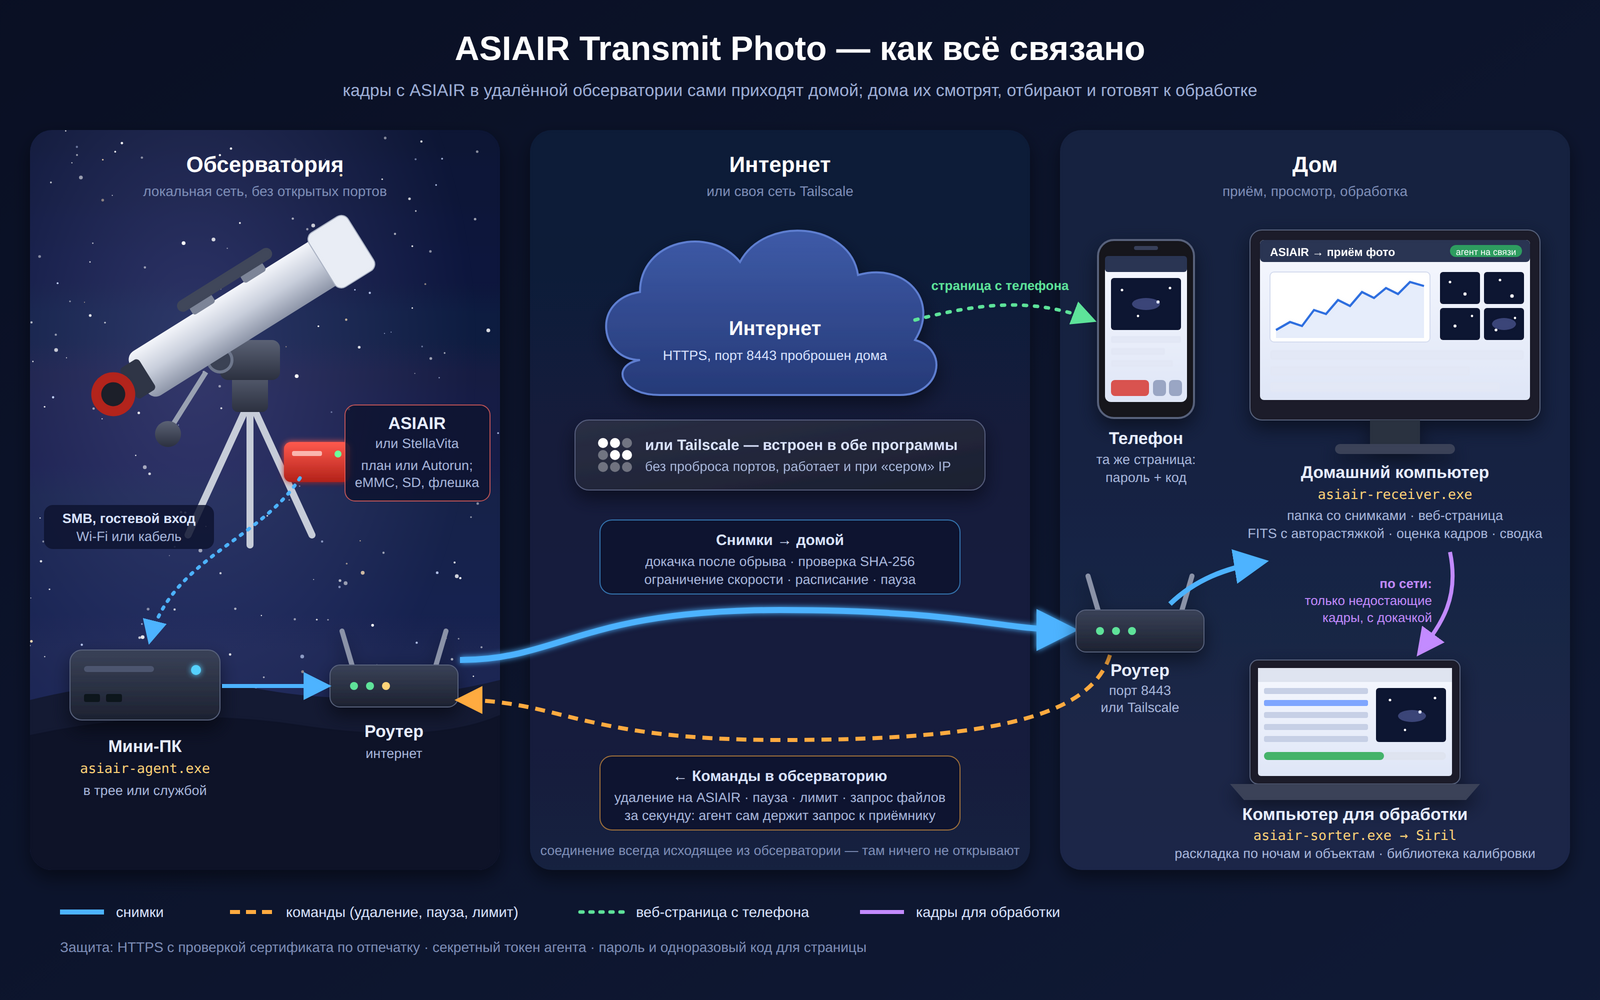
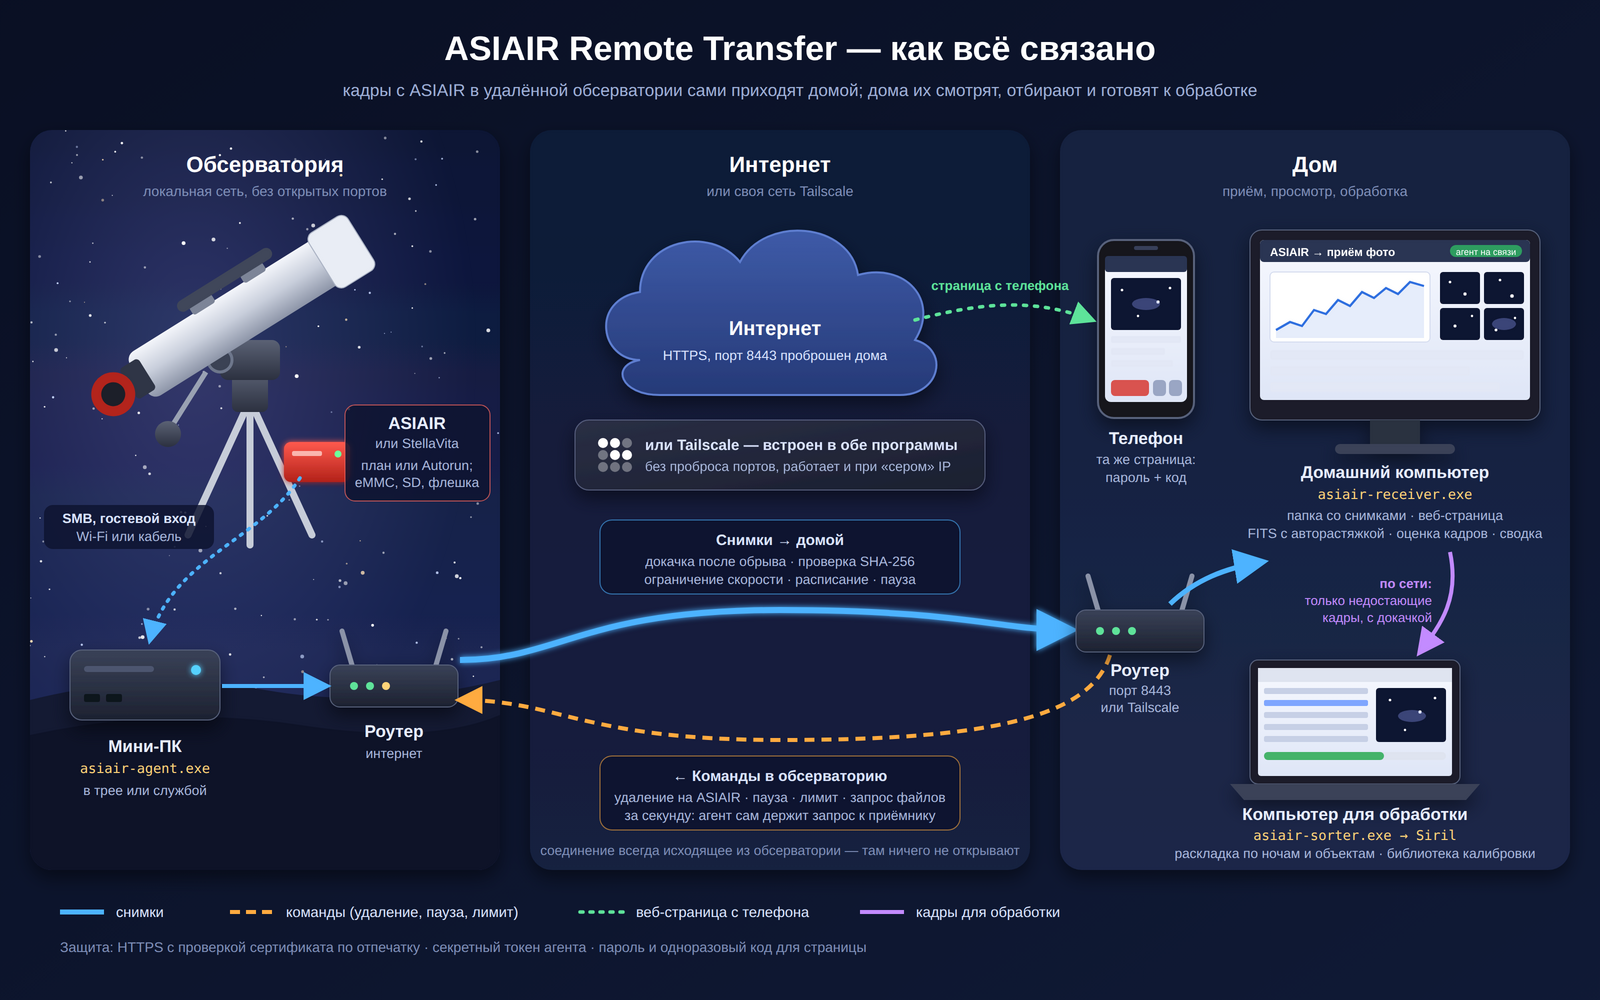
The project is called ASIAIR Remote Transfer
Only the displayed name: the README title, the infographic and the
names of the release archives (the updater uses only the .exe assets).
The repository, the module path and the program names stay.

Claude-Session: https://claude.ai/code/session_01BQNbVoyvKsJjv8uKhxVdRR

Changed region(s): [[0.2812, 0.031, 0.7188, 0.062]]

diff --git a/docs/src/network.html b/docs/src/network.html
@@ -35,7 +35,7 @@ svg{display:block;font-family:"Liberation Sans","DejaVu Sans",Arial,sans-serif}
 </defs>
 
 <rect width="1600" height="1000" fill="url(#bg)"/>
-<text x="800" y="60" text-anchor="middle" class="h" font-size="34">ASIAIR Transmit Photo — как всё связано</text>
+<text x="800" y="60" text-anchor="middle" class="h" font-size="34">ASIAIR Remote Transfer — как всё связано</text>
 <text x="800" y="96" text-anchor="middle" class="m" font-size="17">кадры с ASIAIR в удалённой обсерватории сами приходят домой; дома их смотрят, отбирают и готовят к обработке</text>
 
 <!-- ============ zones ============ -->

diff --git a/README.md b/README.md
@@ -1,6 +1,6 @@
-# ASIAIR Transmit Photo
+# ASIAIR Remote Transfer
 
-**Снимки с ASIAIR из удалённой обсерватории — сами у вас дома.** Две небольшие программы забирают новые кадры с ASIAIR и передают их через интернет на домашний компьютер, а в браузере показывают, что снято за ночь: FITS с авторастяжкой, оценку кадров, сводку по ночам. Лишнее можно удалить прямо на ASIAIR, не подключаясь к обсерватории.
+**Снимки с ASIAIR из удалённой обсерватории — сами у вас дома.** Две небольшие программы забирают новые кадры с ASIAIR и передают их через интернет на домашний компьютер, а в браузере показывают, что снято за ночь: FITS с авторастяжкой, оценку кадров, сводку по ночам. Лишнее можно удалить прямо на ASIAIR, не подключаясь к обсерватории. Третья программа, по желанию, раскладывает полученные кадры для обработки в Siril.
 
 [![Последний релиз](https://img.shields.io/github/v/release/arbalet1985/asiair_transmit_photo?label=%D1%80%D0%B5%D0%BB%D0%B8%D0%B7)](https://github.com/arbalet1985/asiair_transmit_photo/releases/latest)
 ![Windows](https://img.shields.io/badge/Windows-10%20%7C%2011-0078d4)
@@ -16,7 +16,7 @@
 * **Связь** — на выбор: через интернет (на домашнем роутере открыт порт) или через **Tailscale**, встроенный в обе программы: ничего не нужно открывать, работает и при «сером» IP, бесплатно.
 * **Телефон** открывает ту же страницу приёмника (пароль и, по желанию, одноразовый код), а **сортировщик** (`asiair-sorter.exe`) на компьютере для обработки забирает кадры с приёмника по сети и раскладывает их для Siril.
 
-> **In English.** ASIAIR Transmit Photo moves the frames from a ZWO ASIAIR in a remote observatory to your home computer over the internet: an agent next to the ASIAIR reads its SMB shares and uploads new files (resumable, SHA-256 verified, rate-limited), a receiver at home stores them and serves a web page — FITS viewer with auto-stretch, frame quality (stars, HFR), per-night summary, remote deletion on the ASIAIR, phone access. A third program, the sorter, lays the frames out for Siril (sessions by object and night, a calibration library) — from a folder or from the receiver over the network. Works through a port forward or the built-in Tailscale. Windows programs, interface in Russian.
+> **In English.** ASIAIR Remote Transfer moves the frames from a ZWO ASIAIR in a remote observatory to your home computer over the internet: an agent next to the ASIAIR reads its SMB shares and uploads new files (resumable, SHA-256 verified, rate-limited), a receiver at home stores them and serves a web page — FITS viewer with auto-stretch, frame quality (stars, HFR), per-night summary, remote deletion on the ASIAIR, phone access. A third program, the sorter, lays the frames out for Siril (sessions by object and night, a calibration library) — from a folder or from the receiver over the network. Works through a port forward or the built-in Tailscale. Windows programs, interface in Russian.
 
 ## Содержание
 
@@ -92,8 +92,8 @@
 | `asiair-agent.exe` | ПК в обсерватории |
 | `asiair-receiver.exe` | домашний компьютер |
 | `asiair-sorter.exe` | раскладка полученных кадров по папкам для Siril (необязательно) |
-| `asiair-transmit-photo-…-windows.zip` | все три программы и примеры настроек одним архивом |
-| `asiair-transmit-photo-…-linux-amd64.tar.gz` | консольные версии для Linux |
+| `asiair-remote-transfer-…-windows.zip` | все три программы и примеры настроек одним архивом |
+| `asiair-remote-transfer-…-linux-amd64.tar.gz` | консольные версии для Linux |
 
 Установщика нет: каждая программа — один `.exe` без зависимостей. Положите его в отдельную папку, доступную для записи (например, `C:\ASIAIR-Agent\`; не в `C:\Program Files`), — там же программа хранит настройки и журнал.
 
